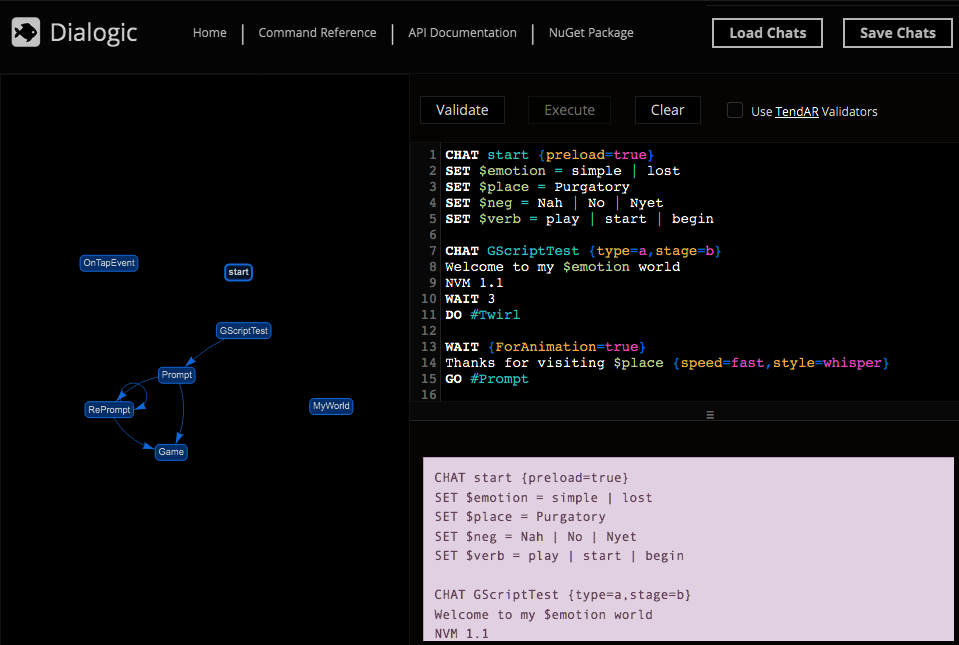
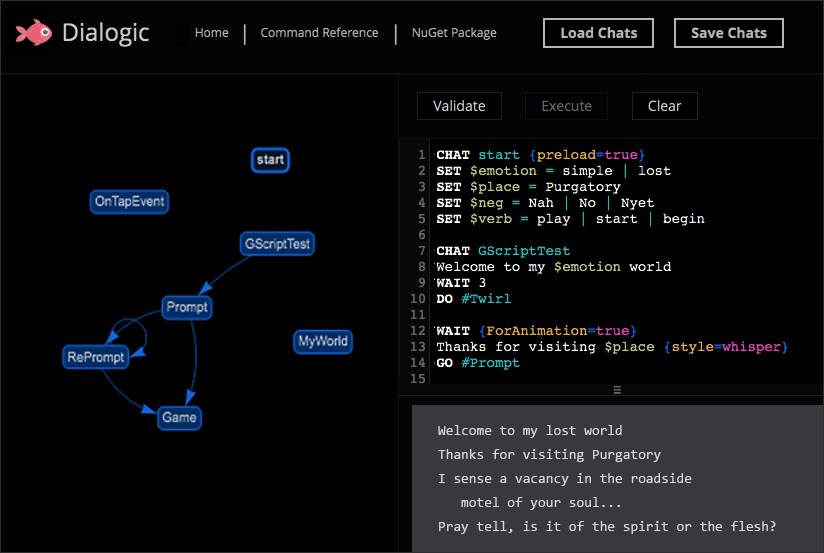
tweaks

diff --git a/dialogic/index.html b/dialogic/index.html
@@ -474,14 +474,14 @@
   <meta property="og:url" content="https://nestjs.com">
   <meta property="og:type" content="website">
   <meta name="twitter:card" content="summary">
-  <meta property="og:site_name" content="Dialogic - A progressive Node.js web framework">
-  <meta property="og:title" content="Dialogic - A progressive Node.js web framework">
+  <meta property="og:site_name" content="Dialogic - A scripting language and toolkit for interactive generative dialog">
+  <meta property="og:title" content="Dialogic - A scripting language and toolkit for interactive generative dialog">
   <meta property="og:description" content="Dialogic is a framework for building efficient, scalable Node.js web applications. It uses modern JavaScript, is built with TypeScript and combines elements of OOP (Object Oriented Progamming), FP (Functional Programming), and FRP (Functional Reactive Programming).">
   <meta property="og:image" content="https://github.com/dhowe/dialogicimg/nest-og.png">
   <meta property="og:image:width" content="1200">
   <meta property="og:image:height" content="650">
   <meta name="twitter:description" content="Dialogic is a framework for building efficient, scalable Node.js web applications. It uses modern JavaScript, is built with TypeScript and combines elements of OOP (Object Oriented Progamming), FP (Functional Programming), and FRP (Functional Reactive Programming).">
-  <meta name="twitter:title" content="Dialogic - A progressive Node.js web framework">
+  <meta name="twitter:title" content="Dialogic - A scripting language and toolkit for interactive generative dialog">
   <link rel="icon" type="image/x-icon" href="https://github.com/dhowe/dialogicfavicon.a18fc8a9.ico">
   <script type="text/javascript" id="www-widgetapi-script" src="DialogicScroll_files/www-widgetapi.js" async=""></script>
   <script defer="defer" src="DialogicScroll_files/all.js"></script>
@@ -543,7 +543,7 @@
     </svg></div>
   <div class="navbar-sticky visible">
     <div class="container">
-      <div class="logo-wrapper d-inline-block"> <a href="https://github.com/dhowe/dialogic"> <img src="DialogicScroll_files/dlogo-small.png" alt="Dialogic - A progressive Node.js web framework"> </a> </div>
+      <div class="logo-wrapper d-inline-block"> <a href="https://github.com/dhowe/dialogic"> <img src="DialogicScroll_files/dlogo-small.png" alt="Dialogic - A scripting language and toolkit for interactive generative dialog"> </a> </div>
       <ul class="nav-wrapper d-inline-block">
         <li class="hidden-sm"><a href="https://github.com/dhowe/dialogic/wiki">FAQ</a></li>
         <li class="hidden-sm"><a target="blank" href="https://github.com/dhowe/dialogic/wiki/Command-Reference">Command Reference</a></li>
@@ -566,7 +566,7 @@
   <header class="page-header">
     <div class="container">
       <div class="top-wrapper">
-        <!--div class="logo-wrapper d-inline-block"> <a href="https://github.com/dhowe/dialogic"> <img src="DialogicScroll_files/dlogo-small.png" alt="Dialogic - A progressive Node.js web framework"> </a> </div-->
+        <!--div class="logo-wrapper d-inline-block"> <a href="https://github.com/dhowe/dialogic"> <img src="DialogicScroll_files/dlogo-small.png" alt="Dialogic - A scripting language and toolkit for interactive generative dialog"> </a> </div-->
         <nav class="pull-right">
           <ul class="nav-wrapper">
             <li ><a href="https://github.com/dhowe/dialogic/wiki">FAQ</a></li>
@@ -583,7 +583,7 @@
         </nav>
         <div class="main-wrapper">
           <h1>dialogic</h1>
-          <h4> A cross-language framework for interactive generative dialog. </h4>
+          <h4>A scripting language and toolkit for interactive generative dialog</h4>
           <div class="buttons-wrapper"> <a href="http://rednoise.org/dialogic-api" class="btn btn-primary d-inline-block">Documentation</a> <a href="https://github.com/dhowe/dialogic" class="btn btn-secondary d-inline-block"> <svg class="svg-inline--fa fa-github fa-w-16"
                 aria-hidden="true" data-prefix="fab" data-icon="github" role="img" xmlns="http://www.w3.org/2000/svg" viewBox="0 0 496 512" data-fa-i2svg="">
                 <path fill="currentColor" d="M165.9 397.4c0 2-2.3 3.6-5.2 3.6-3.3.3-5.6-1.3-5.6-3.6 0-2 2.3-3.6 5.2-3.6 3-.3 5.6 1.3 5.6 3.6zm-31.1-4.5c-.7 2 1.3 4.3 4.3 4.9 2.6 1 5.6 0 6.2-2s-1.3-4.3-4.3-5.2c-2.6-.7-5.5.3-6.2 2.3zm44.2-1.7c-2.9.7-4.9 2.6-4.6 4.9.3 2 2.9 3.3 5.9 2.6 2.9-.7 4.9-2.6 4.6-4.6-.3-1.9-3-3.2-5.9-2.9zM244.8 8C106.1 8 0 113.3 0 252c0 110.9 69.8 205.8 169.5 239.2 12.8 2.3 17.3-5.6 17.3-12.1 0-6.2-.3-40.4-.3-61.4 0 0-70 15-84.7-29.8 0 0-11.4-29.1-27.8-36.6 0 0-22.9-15.7 1.6-15.4 0 0 24.9 2 38.6 25.8 21.9 38.6 58.6 27.5 72.9 20.9 2.3-16 8.8-27.1 16-33.7-55.9-6.2-112.3-14.3-112.3-110.5 0-27.5 7.6-41.3 23.6-58.9-2.6-6.5-11.1-33.3 2.6-67.9 20.9-6.5 69 27 69 27 20-5.6 41.5-8.5 62.8-8.5s42.8 2.9 62.8 8.5c0 0 48.1-33.6 69-27 13.7 34.7 5.2 61.4 2.6 67.9 16 17.7 25.8 31.5 25.8 58.9 0 96.5-58.9 104.2-114.8 110.5 9.2 7.9 17 22.9 17 46.4 0 33.7-.3 75.4-.3 83.6 0 6.5 4.6 14.4 17.3 12.1C428.2 457.8 496 362.9 496 252 496 113.3 383.5 8 244.8 8zM97.2 352.9c-1.3 1-1 3.3.7 5.2 1.6 1.6 3.9 2.3 5.2 1 1.3-1 1-3.3-.7-5.2-1.6-1.6-3.9-2.3-5.2-1zm-10.8-8.1c-.7 1.3.3 2.9 2.3 3.9 1.6 1 3.6.7 4.3-.7.7-1.3-.3-2.9-2.3-3.9-2-.6-3.6-.3-4.3.7zm32.4 35.6c-1.6 1.3-1 4.3 1.3 6.2 2.3 2.3 5.2 2.6 6.5 1 1.3-1.3.7-4.3-1.3-6.2-2.2-2.3-5.2-2.6-6.5-1zm-11.4-14.7c-1.6 1-1.6 3.6 0 5.9 1.6 2.3 4.3 3.3 5.6 2.3 1.6-1.3 1.6-3.9 0-6.2-1.4-2.3-4-3.3-5.6-2z"></path>
@@ -596,27 +596,28 @@
     <div class="container">
       <div class="row">
         <div class="col-md-4 highlight-block">
-          <div class="icon-wrapper"><img src="DialogicScroll_files/3d.svg"></div>
-          <h5>Extensible</h5>
-          <p> Gives you true flexibility by allowing use of any other libraries thanks to modular architecture. </p>
+          <div class="icon-wrapper"><img src="DialogicScroll_files/magic-wand.svg"></div>
+          <h5>Expressive</h5>
+          <p> Dial is a novel scripting language with simple generative primitives, designed specifically for writers  </p>
         </div>
         <div class="col-md-4 highlight-block">
-          <div class="icon-wrapper"><img src="DialogicScroll_files/magic-wand.svg"></div>
-          <h5>Versatile</h5>
-          <p> An adaptable scripting language that can be easily customized for all applications. </p>
+          <div class="icon-wrapper"><img src="DialogicScroll_files/3d.svg"></div>
+          <h5>Performant</h5>
+          <p> Optimized runtime environment with fast/accurate scheduler, fast fuzzy search, serialization, etc.   </p>
         </div>
+
         <div class="col-md-4 highlight-block">
           <div class="icon-wrapper"><img src="DialogicScroll_files/quality.svg"></div>
-          <h5>Powerful</h5>
-          <p> Takes advantage of latest language generation techniques for powerful computational writing. </p>
+          <h5>Complete</h5>
+          <p>Online workbench that supports editing, validation, linting, syntax highlighting and execution </p>
         </div>
       </div>
     </div>
   </div>
   <div class="live-wrapper">
     <div class="container">
-      <h4><a class="headerLink" href="http://rednoise.org/dialogic/editor/" target="_blank"> Live preview</a></h4>
-      <p> Experiment with Dialogic without leaving<br> your browser. </p> <img src="DialogicScroll_files/Dialogic-Editor.png" style="max-width:750px;width:100%;border:0;border-radius:4px;overflow:hidden;"></img>
+      <h4><a class="headerLink" href="http://rednoise.org/dialogic/editor/" target="_blank">Live preview</a></h4>
+      <p> Experiment with Dialogic without leaving<br> your browser. </p> <a class="headerLink" href="http://rednoise.org/dialogic/editor/" target="_blank"><img src="DialogicScroll_files/Dialogic-Editor3.png" style="max-width:750px;width:100%;border:0;border-radius:4px;overflow:hidden;"></img></a>
     </div>
   </div>
 
@@ -657,6 +658,7 @@
       </div> <a href="https://github.com/dhowe/dialogicsupport" target="blank" class="btn btn-primary d-inline-block">Become a sponsor <span>/</span> backer</a>
     </div>
   </div-->
+
   <footer class="page-footer">
     <div class="container">
       <div class="social-wrapper"> <a href="https://github.com/nestjs/nest" target="blank" class="icon"> <svg class="svg-inline--fa fa-github fa-w-16" aria-hidden="true" data-prefix="fab" data-icon="github" role="img" xmlns="http://www.w3.org/2000/svg"
